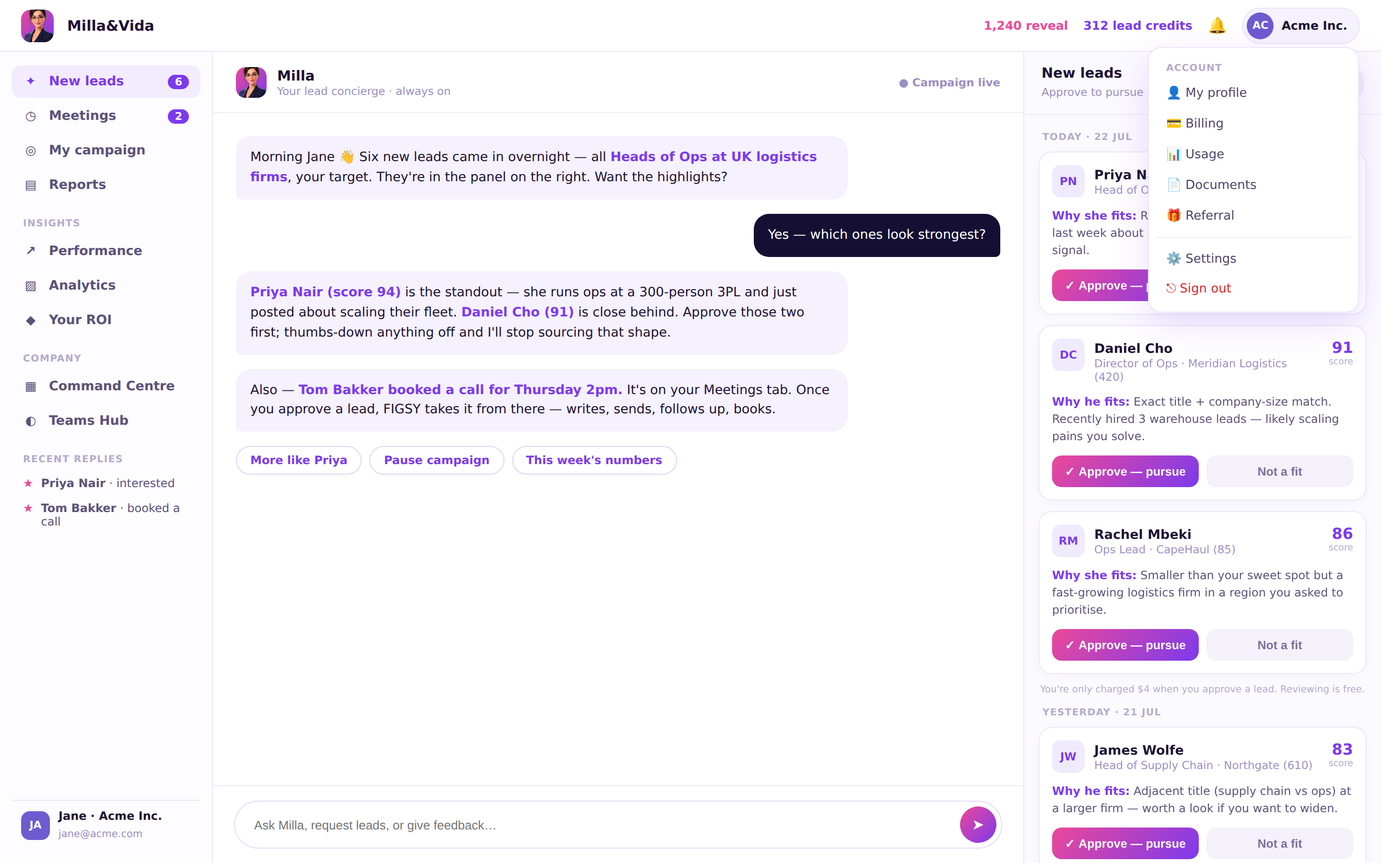
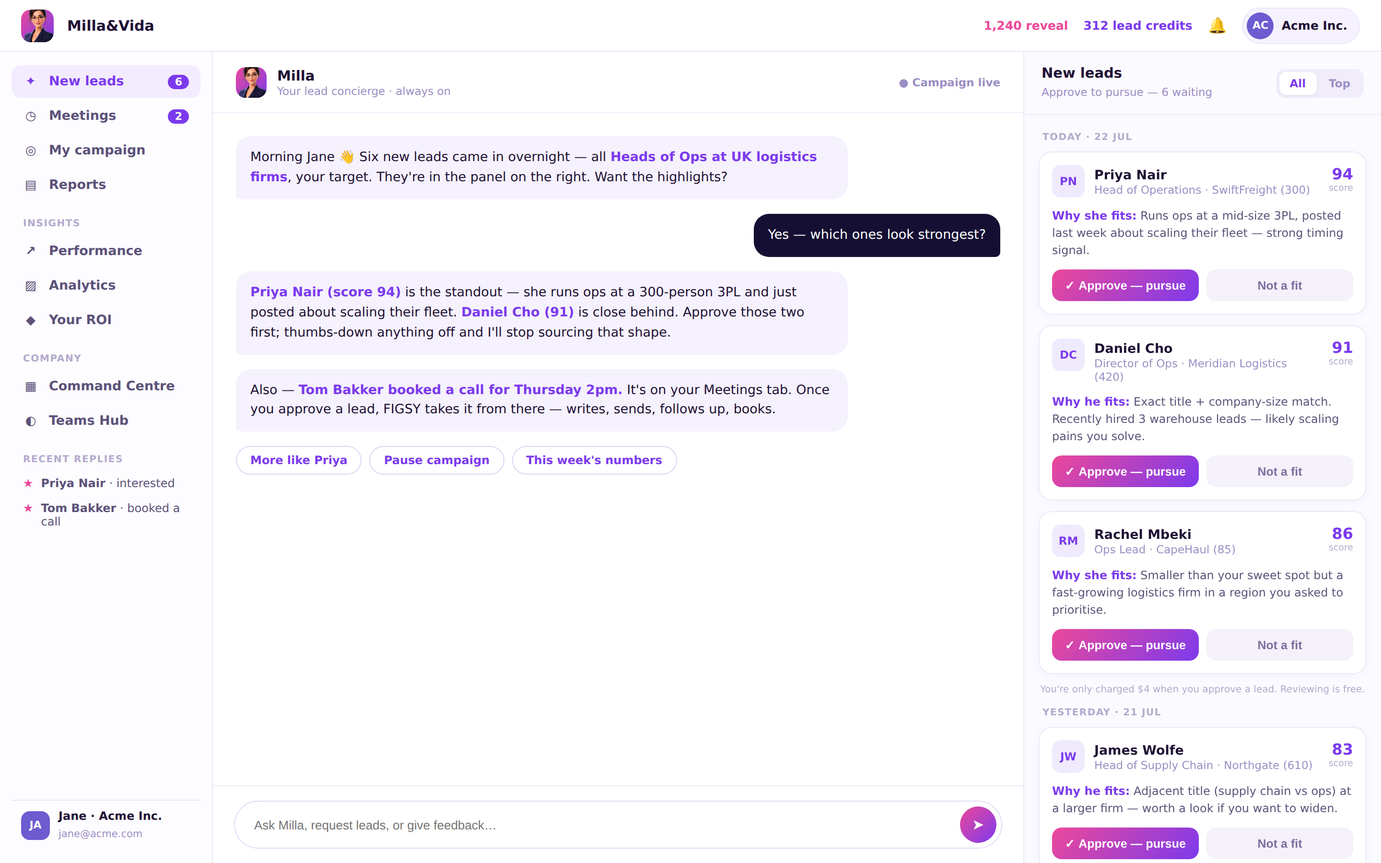
#482 (Fable verify) — pricing model fix + clean mockup renders
- pricing.html: killed the standalone 'Reveal $1' plan card — it read as a buyable cheaper
  tier, but the model has ONE price ($4 on approve = $1+$3 together). Now: the $4 card
  (with the anatomy inside) + Volume. Comparison table 4→3 cols. Calc heading de-FIGSY'd.
- Nav dropdown 'Estimate the meetings FIGSY adds' → 'we add' (28 pages).
- mv-milla-portal.png + mv-vida-console.png re-rendered with the mockups' open dropdown
  panels closed — they were covering the lead cards / pipeline (the 'images are bad' catch).

Claude-Session: https://claude.ai/code/session_01VWxYzSdkTKipYHzoS4C1uU

diff --git a/apps/website/pricing.html b/apps/website/pricing.html
@@ -102,7 +102,7 @@
     .plans-head h2 { font-size: clamp(1.6rem, 3vw, 2.3rem); font-weight: 900; letter-spacing: -0.03em; color: var(--dark); line-height: 1.1; }
     .plans-head > p { font-size: 0.95rem; color: rgba(0,0,0,0.5); margin: 8px auto 0; max-width: 580px; }
     .plans-head > p strong { color: var(--dark); }
-    .plans-grid { display: grid; grid-template-columns: repeat(3,1fr); gap: 18px; align-items: stretch; }
+    .plans-grid { display: grid; grid-template-columns: 1.35fr 1fr; gap: 18px; align-items: stretch; max-width: 880px; margin: 0 auto; }
     .plan { position: relative; display: flex; flex-direction: column; background: #fff; border: 1px solid var(--border); border-radius: 22px; padding: 34px 26px; }
     .plan.pop { border: 1.5px solid var(--blue); box-shadow: 0 24px 60px rgba(124,58,237,0.18); }
     .plan-badge { position: absolute; top: -12px; left: 50%; transform: translateX(-50%); background: linear-gradient(120deg,#7c3aed,#a855f7); color: #fff; font-size: 0.62rem; font-weight: 800; letter-spacing: 0.08em; text-transform: uppercase; padding: 5px 14px; border-radius: 100px; white-space: nowrap; }
@@ -359,7 +359,7 @@
       <div class="nav-dropdown mm" style="min-width:520px">
         <div class="mm-head">Resources</div>
         <div class="mm-grid c2"><a href="the-drop.html" class="mm-link"><span class="mm-ic "><svg viewBox="0 0 24 24" fill="none" stroke="currentColor" stroke-width="1.8" stroke-linejoin="round"><path d="M4 8l8-4 8 4v8l-8 4-8-4z"/><path d="M4 8l8 4 8-4M12 12v8"/></svg></span><span><span class="mm-tt">The Drop </span><span class="mm-ss">What we just shipped</span></span></a>
-          <a href="pipeline-calculator.html" class="mm-link"><span class="mm-ic "><svg viewBox="0 0 24 24" fill="none" stroke="currentColor" stroke-width="1.8" stroke-linecap="round"><path d="M5 20V11M10 20V5M15 20v-6M20 20V8"/></svg></span><span><span class="mm-tt">Pipeline Calculator </span><span class="mm-ss">Estimate the meetings FIGSY adds</span></span></a>
+          <a href="pipeline-calculator.html" class="mm-link"><span class="mm-ic "><svg viewBox="0 0 24 24" fill="none" stroke="currentColor" stroke-width="1.8" stroke-linecap="round"><path d="M5 20V11M10 20V5M15 20v-6M20 20V8"/></svg></span><span><span class="mm-tt">Pipeline Calculator </span><span class="mm-ss">Estimate the meetings we add</span></span></a>
           <a href="help-centre.html" class="mm-link"><span class="mm-ic pink"><svg viewBox="0 0 24 24" fill="none" stroke="currentColor" stroke-width="1.8"><circle cx="12" cy="12" r="8.5"/><circle cx="12" cy="12" r="3.5"/><path d="M6 6l3.5 3.5M18 6l-3.5 3.5M18 18l-3.5-3.5M6 18l3.5-3.5"/></svg></span><span><span class="mm-tt">Help Centre <span class="mm-tag soon">New</span></span><span class="mm-ss">Guides, answers &amp; support</span></span></a>
           <a href="support.html#faq" class="mm-link"><span class="mm-ic "><svg viewBox="0 0 24 24" fill="none" stroke="currentColor" stroke-width="1.8" stroke-linecap="round"><circle cx="12" cy="12" r="8.5"/><path d="M9.6 9.5A2.5 2.5 0 1 1 12 12.6v1.2"/><circle cx="12" cy="16.6" r=".4" fill="currentColor"/></svg></span><span><span class="mm-tt">FAQs </span><span class="mm-ss">Quick answers, no fluff</span></span></a></div>
       </div>
@@ -404,22 +404,6 @@
   </div>
 
   <div class="plans-grid">
-    <!-- Reveal (the first $1) -->
-    <div class="plan">
-      <div class="plan-name">Reveal</div>
-      <div class="plan-role">The first $1 · unlocks the contact</div>
-      <div class="plan-price">$1<span>/approved lead</span></div>
-      <div class="plan-note">When you approve a lead in your Milla portal, $1 reveals the verified contact. Reviewing and passing is always free.</div>
-      <ul>
-        <li><svg width="14" height="14" viewBox="0 0 24 24" fill="none" stroke="#7c3aed" stroke-width="2.6" stroke-linecap="round" stroke-linejoin="round"><path d="M20 6 9 17l-5-5"/></svg>ICP-matched B2B sourcing (PDL + Hunter)</li>
-        <li><svg width="14" height="14" viewBox="0 0 24 24" fill="none" stroke="#7c3aed" stroke-width="2.6" stroke-linecap="round" stroke-linejoin="round"><path d="M20 6 9 17l-5-5"/></svg>Verified contact, revealed on approve</li>
-        <li><svg width="14" height="14" viewBox="0 0 24 24" fill="none" stroke="#7c3aed" stroke-width="2.6" stroke-linecap="round" stroke-linejoin="round"><path d="M20 6 9 17l-5-5"/></svg>AI lead score 0–100</li>
-        <li><svg width="14" height="14" viewBox="0 0 24 24" fill="none" stroke="#7c3aed" stroke-width="2.6" stroke-linecap="round" stroke-linejoin="round"><path d="M20 6 9 17l-5-5"/></svg>Suppression-checked · CRM dedup</li>
-        <li><svg width="14" height="14" viewBox="0 0 24 24" fill="none" stroke="#7c3aed" stroke-width="2.6" stroke-linecap="round" stroke-linejoin="round"><path d="M20 6 9 17l-5-5"/></svg>Dead email? Auto-refunded</li>
-      </ul>
-      <a href="demo.html" class="plan-btn out">Book a walkthrough &rarr;</a>
-    </div>
-
     <!-- Approved lead (the model) -->
     <div class="plan pop">
       <div class="plan-badge">The model</div>
@@ -428,7 +412,8 @@
       <div class="plan-price">$4<span>/approved lead</span></div>
       <div class="plan-note">$1 to reveal + $3 for our operator team to work it. Fires only when you tap 👍 approve — never before. Reviewing is free.</div>
       <ul>
-        <li><svg width="14" height="14" viewBox="0 0 24 24" fill="none" stroke="#7c3aed" stroke-width="2.6" stroke-linecap="round" stroke-linejoin="round"><path d="M20 6 9 17l-5-5"/></svg>We source &amp; score; leads land masked in your portal</li>
+        <li><svg width="14" height="14" viewBox="0 0 24 24" fill="none" stroke="#7c3aed" stroke-width="2.6" stroke-linecap="round" stroke-linejoin="round"><path d="M20 6 9 17l-5-5"/></svg>We source &amp; score (PDL + Hunter); leads land masked in your portal</li>
+        <li><svg width="14" height="14" viewBox="0 0 24 24" fill="none" stroke="#7c3aed" stroke-width="2.6" stroke-linecap="round" stroke-linejoin="round"><path d="M20 6 9 17l-5-5"/></svg>Verified contact revealed on your 👍 · dead email auto-refunded</li>
         <li><svg width="14" height="14" viewBox="0 0 24 24" fill="none" stroke="#7c3aed" stroke-width="2.6" stroke-linecap="round" stroke-linejoin="round"><path d="M20 6 9 17l-5-5"/></svg>Personalised outreach, written &amp; sent for you</li>
         <li><svg width="14" height="14" viewBox="0 0 24 24" fill="none" stroke="#7c3aed" stroke-width="2.6" stroke-linecap="round" stroke-linejoin="round"><path d="M20 6 9 17l-5-5"/></svg>Follow-up sequence (up to 10 steps)</li>
         <li><svg width="14" height="14" viewBox="0 0 24 24" fill="none" stroke="#7c3aed" stroke-width="2.6" stroke-linecap="round" stroke-linejoin="round"><path d="M20 6 9 17l-5-5"/></svg>Reply triage with human approval · Google Calendar booking</li>
@@ -478,36 +463,35 @@
         <thead>
           <tr>
             <th>Feature</th>
-            <th><span class="cmp-plan-name">Reveal</span><div class="cmp-plan-price">$1 / approved</div></th>
             <th class="cmp-col-pop"><span class="cmp-plan-name">Approved lead</span><div class="cmp-plan-price">$4 / approved</div></th>
             <th><span class="cmp-plan-name">Volume</span><div class="cmp-plan-price">Custom</div></th>
           </tr>
         </thead>
         <tbody>
-          <tr class="cmp-grouprow"><td colspan="4">Data</td></tr>
-          <tr><td>ICP-matched lead sourcing</td><td class="cmp-yes">✓</td><td class="cmp-col-pop cmp-yes">✓</td><td class="cmp-yes">✓</td></tr>
-          <tr><td>Verified contact</td><td class="cmp-yes">✓</td><td class="cmp-col-pop cmp-yes">✓</td><td class="cmp-yes">✓</td></tr>
-          <tr><td>AI lead score 0–100</td><td class="cmp-yes">✓</td><td class="cmp-col-pop cmp-yes">✓</td><td class="cmp-yes">✓</td></tr>
-          <tr><td>CRM dedup</td><td class="cmp-yes">✓</td><td class="cmp-col-pop cmp-yes">✓</td><td class="cmp-yes">✓</td></tr>
-          <tr><td>CSV export</td><td class="cmp-yes">✓</td><td class="cmp-col-pop cmp-yes">✓</td><td class="cmp-yes">✓</td></tr>
+          <tr class="cmp-grouprow"><td colspan="3">Data</td></tr>
+          <tr><td>ICP-matched lead sourcing</td><td class="cmp-col-pop cmp-yes">✓</td><td class="cmp-yes">✓</td></tr>
+          <tr><td>Verified contact</td><td class="cmp-col-pop cmp-yes">✓</td><td class="cmp-yes">✓</td></tr>
+          <tr><td>AI lead score 0–100</td><td class="cmp-col-pop cmp-yes">✓</td><td class="cmp-yes">✓</td></tr>
+          <tr><td>CRM dedup</td><td class="cmp-col-pop cmp-yes">✓</td><td class="cmp-yes">✓</td></tr>
+          <tr><td>CSV export</td><td class="cmp-col-pop cmp-yes">✓</td><td class="cmp-yes">✓</td></tr>
 
-          <tr class="cmp-grouprow"><td colspan="4">Outbound work</td></tr>
-          <tr><td>Personalised outreach, sent by our team</td><td class="cmp-no">—</td><td class="cmp-col-pop cmp-yes">✓</td><td class="cmp-yes">✓</td></tr>
-          <tr><td>Follow-up sequence (≤10 steps)</td><td class="cmp-no">—</td><td class="cmp-col-pop cmp-yes">✓</td><td class="cmp-yes">✓</td></tr>
-          <tr><td>Reply triage with human approval</td><td class="cmp-no">—</td><td class="cmp-col-pop cmp-yes">✓</td><td class="cmp-yes">✓</td></tr>
-          <tr><td>Booking link in every email</td><td class="cmp-no">—</td><td class="cmp-col-pop cmp-yes">✓</td><td class="cmp-yes">✓</td></tr>
-          <tr><td>Google Calendar booking</td><td class="cmp-no">—</td><td class="cmp-col-pop cmp-yes">✓</td><td class="cmp-yes">✓</td></tr>
-          <tr><td>Kill-switch &amp; 20/day cap</td><td class="cmp-no">—</td><td class="cmp-col-pop cmp-yes">✓</td><td class="cmp-yes">✓</td></tr>
+          <tr class="cmp-grouprow"><td colspan="3">Outbound work</td></tr>
+          <tr><td>Personalised outreach, sent by our team</td><td class="cmp-col-pop cmp-yes">✓</td><td class="cmp-yes">✓</td></tr>
+          <tr><td>Follow-up sequence (≤10 steps)</td><td class="cmp-col-pop cmp-yes">✓</td><td class="cmp-yes">✓</td></tr>
+          <tr><td>Reply triage with human approval</td><td class="cmp-col-pop cmp-yes">✓</td><td class="cmp-yes">✓</td></tr>
+          <tr><td>Booking link in every email</td><td class="cmp-col-pop cmp-yes">✓</td><td class="cmp-yes">✓</td></tr>
+          <tr><td>Google Calendar booking</td><td class="cmp-col-pop cmp-yes">✓</td><td class="cmp-yes">✓</td></tr>
+          <tr><td>Kill-switch &amp; 20/day cap</td><td class="cmp-col-pop cmp-yes">✓</td><td class="cmp-yes">✓</td></tr>
 
-          <tr class="cmp-grouprow"><td colspan="4">Delivery &amp; compliance</td></tr>
-          <tr><td>GDPR / POPIA compliant</td><td class="cmp-yes">✓</td><td class="cmp-col-pop cmp-yes">✓</td><td class="cmp-yes">✓</td></tr>
-          <tr><td>Suppression / opt-out handling</td><td class="cmp-yes">✓</td><td class="cmp-col-pop cmp-yes">✓</td><td class="cmp-yes">✓</td></tr>
-          <tr><td>SSO / DPA on request</td><td class="cmp-no">—</td><td class="cmp-col-pop cmp-no">—</td><td class="cmp-yes">✓</td></tr>
+          <tr class="cmp-grouprow"><td colspan="3">Delivery &amp; compliance</td></tr>
+          <tr><td>GDPR / POPIA compliant</td><td class="cmp-col-pop cmp-yes">✓</td><td class="cmp-yes">✓</td></tr>
+          <tr><td>Suppression / opt-out handling</td><td class="cmp-col-pop cmp-yes">✓</td><td class="cmp-yes">✓</td></tr>
+          <tr><td>SSO / DPA on request</td><td class="cmp-col-pop cmp-no">—</td><td class="cmp-yes">✓</td></tr>
 
-          <tr class="cmp-grouprow"><td colspan="4">Support</td></tr>
-          <tr><td>Email support</td><td class="cmp-yes">✓</td><td class="cmp-col-pop cmp-yes">✓</td><td class="cmp-yes">✓</td></tr>
-          <tr><td>Dedicated onboarding</td><td class="cmp-no">—</td><td class="cmp-col-pop cmp-no">—</td><td class="cmp-yes">✓</td></tr>
-          <tr><td>Priority support</td><td class="cmp-no">—</td><td class="cmp-col-pop cmp-no">—</td><td class="cmp-yes">✓</td></tr>
+          <tr class="cmp-grouprow"><td colspan="3">Support</td></tr>
+          <tr><td>Email support</td><td class="cmp-col-pop cmp-yes">✓</td><td class="cmp-yes">✓</td></tr>
+          <tr><td>Dedicated onboarding</td><td class="cmp-col-pop cmp-no">—</td><td class="cmp-yes">✓</td></tr>
+          <tr><td>Priority support</td><td class="cmp-col-pop cmp-no">—</td><td class="cmp-yes">✓</td></tr>
         </tbody>
       </table>
     </div>
@@ -518,7 +502,7 @@
 <section class="calc-band">
   <div class="calc-head">
     <div class="s-label">The calculator</div>
-    <h2>See what FIGSY could add.</h2>
+    <h2>See what this could add.</h2>
     <p>Put in your own numbers — every assumption below is yours to move. We'd rather show you a conservative estimate you trust than a flashy one you don't.</p>
   </div>
 

diff --git a/apps/website/index.html b/apps/website/index.html
@@ -1395,7 +1395,7 @@
       <div class="nav-dropdown mm" style="min-width:520px">
         <div class="mm-head">Resources</div>
         <div class="mm-grid c2"><a href="the-drop.html" class="mm-link"><span class="mm-ic "><svg viewBox="0 0 24 24" fill="none" stroke="currentColor" stroke-width="1.8" stroke-linejoin="round"><path d="M4 8l8-4 8 4v8l-8 4-8-4z"/><path d="M4 8l8 4 8-4M12 12v8"/></svg></span><span><span class="mm-tt">The Drop </span><span class="mm-ss">What we just shipped</span></span></a>
-          <a href="pipeline-calculator.html" class="mm-link"><span class="mm-ic "><svg viewBox="0 0 24 24" fill="none" stroke="currentColor" stroke-width="1.8" stroke-linecap="round"><path d="M5 20V11M10 20V5M15 20v-6M20 20V8"/></svg></span><span><span class="mm-tt">Pipeline Calculator </span><span class="mm-ss">Estimate the meetings FIGSY adds</span></span></a>
+          <a href="pipeline-calculator.html" class="mm-link"><span class="mm-ic "><svg viewBox="0 0 24 24" fill="none" stroke="currentColor" stroke-width="1.8" stroke-linecap="round"><path d="M5 20V11M10 20V5M15 20v-6M20 20V8"/></svg></span><span><span class="mm-tt">Pipeline Calculator </span><span class="mm-ss">Estimate the meetings we add</span></span></a>
           <a href="help-centre.html" class="mm-link"><span class="mm-ic pink"><svg viewBox="0 0 24 24" fill="none" stroke="currentColor" stroke-width="1.8"><circle cx="12" cy="12" r="8.5"/><circle cx="12" cy="12" r="3.5"/><path d="M6 6l3.5 3.5M18 6l-3.5 3.5M18 18l-3.5-3.5M6 18l3.5-3.5"/></svg></span><span><span class="mm-tt">Help Centre <span class="mm-tag soon">New</span></span><span class="mm-ss">Guides, answers &amp; support</span></span></a>
           <a href="support.html#faq" class="mm-link"><span class="mm-ic "><svg viewBox="0 0 24 24" fill="none" stroke="currentColor" stroke-width="1.8" stroke-linecap="round"><circle cx="12" cy="12" r="8.5"/><path d="M9.6 9.5A2.5 2.5 0 1 1 12 12.6v1.2"/><circle cx="12" cy="16.6" r=".4" fill="currentColor"/></svg></span><span><span class="mm-tt">FAQs </span><span class="mm-ss">Quick answers, no fluff</span></span></a></div>
       </div>

diff --git a/apps/website/about.html b/apps/website/about.html
@@ -306,7 +306,7 @@
       <div class="nav-dropdown mm" style="min-width:520px">
         <div class="mm-head">Resources</div>
         <div class="mm-grid c2"><a href="the-drop.html" class="mm-link"><span class="mm-ic "><svg viewBox="0 0 24 24" fill="none" stroke="currentColor" stroke-width="1.8" stroke-linejoin="round"><path d="M4 8l8-4 8 4v8l-8 4-8-4z"/><path d="M4 8l8 4 8-4M12 12v8"/></svg></span><span><span class="mm-tt">The Drop </span><span class="mm-ss">What we just shipped</span></span></a>
-          <a href="pipeline-calculator.html" class="mm-link"><span class="mm-ic "><svg viewBox="0 0 24 24" fill="none" stroke="currentColor" stroke-width="1.8" stroke-linecap="round"><path d="M5 20V11M10 20V5M15 20v-6M20 20V8"/></svg></span><span><span class="mm-tt">Pipeline Calculator </span><span class="mm-ss">Estimate the meetings FIGSY adds</span></span></a>
+          <a href="pipeline-calculator.html" class="mm-link"><span class="mm-ic "><svg viewBox="0 0 24 24" fill="none" stroke="currentColor" stroke-width="1.8" stroke-linecap="round"><path d="M5 20V11M10 20V5M15 20v-6M20 20V8"/></svg></span><span><span class="mm-tt">Pipeline Calculator </span><span class="mm-ss">Estimate the meetings we add</span></span></a>
           <a href="help-centre.html" class="mm-link"><span class="mm-ic pink"><svg viewBox="0 0 24 24" fill="none" stroke="currentColor" stroke-width="1.8"><circle cx="12" cy="12" r="8.5"/><circle cx="12" cy="12" r="3.5"/><path d="M6 6l3.5 3.5M18 6l-3.5 3.5M18 18l-3.5-3.5M6 18l3.5-3.5"/></svg></span><span><span class="mm-tt">Help Centre <span class="mm-tag soon">New</span></span><span class="mm-ss">Guides, answers &amp; support</span></span></a>
           <a href="support.html#faq" class="mm-link"><span class="mm-ic "><svg viewBox="0 0 24 24" fill="none" stroke="currentColor" stroke-width="1.8" stroke-linecap="round"><circle cx="12" cy="12" r="8.5"/><path d="M9.6 9.5A2.5 2.5 0 1 1 12 12.6v1.2"/><circle cx="12" cy="16.6" r=".4" fill="currentColor"/></svg></span><span><span class="mm-tt">FAQs </span><span class="mm-ss">Quick answers, no fluff</span></span></a></div>
       </div>

diff --git a/apps/website/demo.html b/apps/website/demo.html
@@ -202,7 +202,7 @@
       <div class="nav-dropdown mm" style="min-width:520px">
         <div class="mm-head">Resources</div>
         <div class="mm-grid c2"><a href="the-drop.html" class="mm-link"><span class="mm-ic "><svg viewBox="0 0 24 24" fill="none" stroke="currentColor" stroke-width="1.8" stroke-linejoin="round"><path d="M4 8l8-4 8 4v8l-8 4-8-4z"/><path d="M4 8l8 4 8-4M12 12v8"/></svg></span><span><span class="mm-tt">The Drop </span><span class="mm-ss">What we just shipped</span></span></a>
-          <a href="pipeline-calculator.html" class="mm-link"><span class="mm-ic "><svg viewBox="0 0 24 24" fill="none" stroke="currentColor" stroke-width="1.8" stroke-linecap="round"><path d="M5 20V11M10 20V5M15 20v-6M20 20V8"/></svg></span><span><span class="mm-tt">Pipeline Calculator </span><span class="mm-ss">Estimate the meetings FIGSY adds</span></span></a>
+          <a href="pipeline-calculator.html" class="mm-link"><span class="mm-ic "><svg viewBox="0 0 24 24" fill="none" stroke="currentColor" stroke-width="1.8" stroke-linecap="round"><path d="M5 20V11M10 20V5M15 20v-6M20 20V8"/></svg></span><span><span class="mm-tt">Pipeline Calculator </span><span class="mm-ss">Estimate the meetings we add</span></span></a>
           <a href="help-centre.html" class="mm-link"><span class="mm-ic pink"><svg viewBox="0 0 24 24" fill="none" stroke="currentColor" stroke-width="1.8"><circle cx="12" cy="12" r="8.5"/><circle cx="12" cy="12" r="3.5"/><path d="M6 6l3.5 3.5M18 6l-3.5 3.5M18 18l-3.5-3.5M6 18l3.5-3.5"/></svg></span><span><span class="mm-tt">Help Centre <span class="mm-tag soon">New</span></span><span class="mm-ss">Guides, answers &amp; support</span></span></a>
           <a href="support.html#faq" class="mm-link"><span class="mm-ic "><svg viewBox="0 0 24 24" fill="none" stroke="currentColor" stroke-width="1.8" stroke-linecap="round"><circle cx="12" cy="12" r="8.5"/><path d="M9.6 9.5A2.5 2.5 0 1 1 12 12.6v1.2"/><circle cx="12" cy="16.6" r=".4" fill="currentColor"/></svg></span><span><span class="mm-tt">FAQs </span><span class="mm-ss">Quick answers, no fluff</span></span></a></div>
       </div>

diff --git a/apps/website/dpa-us.html b/apps/website/dpa-us.html
@@ -221,7 +221,7 @@
       <div class="nav-dropdown mm" style="min-width:520px">
         <div class="mm-head">Resources</div>
         <div class="mm-grid c2"><a href="the-drop.html" class="mm-link"><span class="mm-ic "><svg viewBox="0 0 24 24" fill="none" stroke="currentColor" stroke-width="1.8" stroke-linejoin="round"><path d="M4 8l8-4 8 4v8l-8 4-8-4z"/><path d="M4 8l8 4 8-4M12 12v8"/></svg></span><span><span class="mm-tt">The Drop </span><span class="mm-ss">What we just shipped</span></span></a>
-          <a href="pipeline-calculator.html" class="mm-link"><span class="mm-ic "><svg viewBox="0 0 24 24" fill="none" stroke="currentColor" stroke-width="1.8" stroke-linecap="round"><path d="M5 20V11M10 20V5M15 20v-6M20 20V8"/></svg></span><span><span class="mm-tt">Pipeline Calculator </span><span class="mm-ss">Estimate the meetings FIGSY adds</span></span></a>
+          <a href="pipeline-calculator.html" class="mm-link"><span class="mm-ic "><svg viewBox="0 0 24 24" fill="none" stroke="currentColor" stroke-width="1.8" stroke-linecap="round"><path d="M5 20V11M10 20V5M15 20v-6M20 20V8"/></svg></span><span><span class="mm-tt">Pipeline Calculator </span><span class="mm-ss">Estimate the meetings we add</span></span></a>
           <a href="help-centre.html" class="mm-link"><span class="mm-ic pink"><svg viewBox="0 0 24 24" fill="none" stroke="currentColor" stroke-width="1.8"><circle cx="12" cy="12" r="8.5"/><circle cx="12" cy="12" r="3.5"/><path d="M6 6l3.5 3.5M18 6l-3.5 3.5M18 18l-3.5-3.5M6 18l3.5-3.5"/></svg></span><span><span class="mm-tt">Help Centre <span class="mm-tag soon">New</span></span><span class="mm-ss">Guides, answers &amp; support</span></span></a>
           <a href="support.html#faq" class="mm-link"><span class="mm-ic "><svg viewBox="0 0 24 24" fill="none" stroke="currentColor" stroke-width="1.8" stroke-linecap="round"><circle cx="12" cy="12" r="8.5"/><path d="M9.6 9.5A2.5 2.5 0 1 1 12 12.6v1.2"/><circle cx="12" cy="16.6" r=".4" fill="currentColor"/></svg></span><span><span class="mm-tt">FAQs </span><span class="mm-ss">Quick answers, no fluff</span></span></a></div>
       </div>

diff --git a/apps/website/dpa.html b/apps/website/dpa.html
@@ -216,7 +216,7 @@
       <div class="nav-dropdown mm" style="min-width:520px">
         <div class="mm-head">Resources</div>
         <div class="mm-grid c2"><a href="the-drop.html" class="mm-link"><span class="mm-ic "><svg viewBox="0 0 24 24" fill="none" stroke="currentColor" stroke-width="1.8" stroke-linejoin="round"><path d="M4 8l8-4 8 4v8l-8 4-8-4z"/><path d="M4 8l8 4 8-4M12 12v8"/></svg></span><span><span class="mm-tt">The Drop </span><span class="mm-ss">What we just shipped</span></span></a>
-          <a href="pipeline-calculator.html" class="mm-link"><span class="mm-ic "><svg viewBox="0 0 24 24" fill="none" stroke="currentColor" stroke-width="1.8" stroke-linecap="round"><path d="M5 20V11M10 20V5M15 20v-6M20 20V8"/></svg></span><span><span class="mm-tt">Pipeline Calculator </span><span class="mm-ss">Estimate the meetings FIGSY adds</span></span></a>
+          <a href="pipeline-calculator.html" class="mm-link"><span class="mm-ic "><svg viewBox="0 0 24 24" fill="none" stroke="currentColor" stroke-width="1.8" stroke-linecap="round"><path d="M5 20V11M10 20V5M15 20v-6M20 20V8"/></svg></span><span><span class="mm-tt">Pipeline Calculator </span><span class="mm-ss">Estimate the meetings we add</span></span></a>
           <a href="help-centre.html" class="mm-link"><span class="mm-ic pink"><svg viewBox="0 0 24 24" fill="none" stroke="currentColor" stroke-width="1.8"><circle cx="12" cy="12" r="8.5"/><circle cx="12" cy="12" r="3.5"/><path d="M6 6l3.5 3.5M18 6l-3.5 3.5M18 18l-3.5-3.5M6 18l3.5-3.5"/></svg></span><span><span class="mm-tt">Help Centre <span class="mm-tag soon">New</span></span><span class="mm-ss">Guides, answers &amp; support</span></span></a>
           <a href="support.html#faq" class="mm-link"><span class="mm-ic "><svg viewBox="0 0 24 24" fill="none" stroke="currentColor" stroke-width="1.8" stroke-linecap="round"><circle cx="12" cy="12" r="8.5"/><path d="M9.6 9.5A2.5 2.5 0 1 1 12 12.6v1.2"/><circle cx="12" cy="16.6" r=".4" fill="currentColor"/></svg></span><span><span class="mm-tt">FAQs </span><span class="mm-ss">Quick answers, no fluff</span></span></a></div>
       </div>

diff --git a/apps/website/drop-01.html b/apps/website/drop-01.html
@@ -211,7 +211,7 @@
       <div class="nav-dropdown mm" style="min-width:520px">
         <div class="mm-head">Resources</div>
         <div class="mm-grid c2"><a href="the-drop.html" class="mm-link"><span class="mm-ic "><svg viewBox="0 0 24 24" fill="none" stroke="currentColor" stroke-width="1.8" stroke-linejoin="round"><path d="M4 8l8-4 8 4v8l-8 4-8-4z"/><path d="M4 8l8 4 8-4M12 12v8"/></svg></span><span><span class="mm-tt">The Drop </span><span class="mm-ss">What we just shipped</span></span></a>
-          <a href="pipeline-calculator.html" class="mm-link"><span class="mm-ic "><svg viewBox="0 0 24 24" fill="none" stroke="currentColor" stroke-width="1.8" stroke-linecap="round"><path d="M5 20V11M10 20V5M15 20v-6M20 20V8"/></svg></span><span><span class="mm-tt">Pipeline Calculator </span><span class="mm-ss">Estimate the meetings FIGSY adds</span></span></a>
+          <a href="pipeline-calculator.html" class="mm-link"><span class="mm-ic "><svg viewBox="0 0 24 24" fill="none" stroke="currentColor" stroke-width="1.8" stroke-linecap="round"><path d="M5 20V11M10 20V5M15 20v-6M20 20V8"/></svg></span><span><span class="mm-tt">Pipeline Calculator </span><span class="mm-ss">Estimate the meetings we add</span></span></a>
           <a href="help-centre.html" class="mm-link"><span class="mm-ic pink"><svg viewBox="0 0 24 24" fill="none" stroke="currentColor" stroke-width="1.8"><circle cx="12" cy="12" r="8.5"/><circle cx="12" cy="12" r="3.5"/><path d="M6 6l3.5 3.5M18 6l-3.5 3.5M18 18l-3.5-3.5M6 18l3.5-3.5"/></svg></span><span><span class="mm-tt">Help Centre <span class="mm-tag soon">New</span></span><span class="mm-ss">Guides, answers &amp; support</span></span></a>
           <a href="support.html#faq" class="mm-link"><span class="mm-ic "><svg viewBox="0 0 24 24" fill="none" stroke="currentColor" stroke-width="1.8" stroke-linecap="round"><circle cx="12" cy="12" r="8.5"/><path d="M9.6 9.5A2.5 2.5 0 1 1 12 12.6v1.2"/><circle cx="12" cy="16.6" r=".4" fill="currentColor"/></svg></span><span><span class="mm-tt">FAQs </span><span class="mm-ss">Quick answers, no fluff</span></span></a></div>
       </div>

diff --git a/apps/website/drop-02.html b/apps/website/drop-02.html
@@ -211,7 +211,7 @@
       <div class="nav-dropdown mm" style="min-width:520px">
         <div class="mm-head">Resources</div>
         <div class="mm-grid c2"><a href="the-drop.html" class="mm-link"><span class="mm-ic "><svg viewBox="0 0 24 24" fill="none" stroke="currentColor" stroke-width="1.8" stroke-linejoin="round"><path d="M4 8l8-4 8 4v8l-8 4-8-4z"/><path d="M4 8l8 4 8-4M12 12v8"/></svg></span><span><span class="mm-tt">The Drop </span><span class="mm-ss">What we just shipped</span></span></a>
-          <a href="pipeline-calculator.html" class="mm-link"><span class="mm-ic "><svg viewBox="0 0 24 24" fill="none" stroke="currentColor" stroke-width="1.8" stroke-linecap="round"><path d="M5 20V11M10 20V5M15 20v-6M20 20V8"/></svg></span><span><span class="mm-tt">Pipeline Calculator </span><span class="mm-ss">Estimate the meetings FIGSY adds</span></span></a>
+          <a href="pipeline-calculator.html" class="mm-link"><span class="mm-ic "><svg viewBox="0 0 24 24" fill="none" stroke="currentColor" stroke-width="1.8" stroke-linecap="round"><path d="M5 20V11M10 20V5M15 20v-6M20 20V8"/></svg></span><span><span class="mm-tt">Pipeline Calculator </span><span class="mm-ss">Estimate the meetings we add</span></span></a>
           <a href="help-centre.html" class="mm-link"><span class="mm-ic pink"><svg viewBox="0 0 24 24" fill="none" stroke="currentColor" stroke-width="1.8"><circle cx="12" cy="12" r="8.5"/><circle cx="12" cy="12" r="3.5"/><path d="M6 6l3.5 3.5M18 6l-3.5 3.5M18 18l-3.5-3.5M6 18l3.5-3.5"/></svg></span><span><span class="mm-tt">Help Centre <span class="mm-tag soon">New</span></span><span class="mm-ss">Guides, answers &amp; support</span></span></a>
           <a href="support.html#faq" class="mm-link"><span class="mm-ic "><svg viewBox="0 0 24 24" fill="none" stroke="currentColor" stroke-width="1.8" stroke-linecap="round"><circle cx="12" cy="12" r="8.5"/><path d="M9.6 9.5A2.5 2.5 0 1 1 12 12.6v1.2"/><circle cx="12" cy="16.6" r=".4" fill="currentColor"/></svg></span><span><span class="mm-tt">FAQs </span><span class="mm-ss">Quick answers, no fluff</span></span></a></div>
       </div>

diff --git a/apps/website/drop-03.html b/apps/website/drop-03.html
@@ -211,7 +211,7 @@
       <div class="nav-dropdown mm" style="min-width:520px">
         <div class="mm-head">Resources</div>
         <div class="mm-grid c2"><a href="the-drop.html" class="mm-link"><span class="mm-ic "><svg viewBox="0 0 24 24" fill="none" stroke="currentColor" stroke-width="1.8" stroke-linejoin="round"><path d="M4 8l8-4 8 4v8l-8 4-8-4z"/><path d="M4 8l8 4 8-4M12 12v8"/></svg></span><span><span class="mm-tt">The Drop </span><span class="mm-ss">What we just shipped</span></span></a>
-          <a href="pipeline-calculator.html" class="mm-link"><span class="mm-ic "><svg viewBox="0 0 24 24" fill="none" stroke="currentColor" stroke-width="1.8" stroke-linecap="round"><path d="M5 20V11M10 20V5M15 20v-6M20 20V8"/></svg></span><span><span class="mm-tt">Pipeline Calculator </span><span class="mm-ss">Estimate the meetings FIGSY adds</span></span></a>
+          <a href="pipeline-calculator.html" class="mm-link"><span class="mm-ic "><svg viewBox="0 0 24 24" fill="none" stroke="currentColor" stroke-width="1.8" stroke-linecap="round"><path d="M5 20V11M10 20V5M15 20v-6M20 20V8"/></svg></span><span><span class="mm-tt">Pipeline Calculator </span><span class="mm-ss">Estimate the meetings we add</span></span></a>
           <a href="help-centre.html" class="mm-link"><span class="mm-ic pink"><svg viewBox="0 0 24 24" fill="none" stroke="currentColor" stroke-width="1.8"><circle cx="12" cy="12" r="8.5"/><circle cx="12" cy="12" r="3.5"/><path d="M6 6l3.5 3.5M18 6l-3.5 3.5M18 18l-3.5-3.5M6 18l3.5-3.5"/></svg></span><span><span class="mm-tt">Help Centre <span class="mm-tag soon">New</span></span><span class="mm-ss">Guides, answers &amp; support</span></span></a>
           <a href="support.html#faq" class="mm-link"><span class="mm-ic "><svg viewBox="0 0 24 24" fill="none" stroke="currentColor" stroke-width="1.8" stroke-linecap="round"><circle cx="12" cy="12" r="8.5"/><path d="M9.6 9.5A2.5 2.5 0 1 1 12 12.6v1.2"/><circle cx="12" cy="16.6" r=".4" fill="currentColor"/></svg></span><span><span class="mm-tt">FAQs </span><span class="mm-ss">Quick answers, no fluff</span></span></a></div>
       </div>

diff --git a/apps/website/drop-04.html b/apps/website/drop-04.html
@@ -211,7 +211,7 @@
       <div class="nav-dropdown mm" style="min-width:520px">
         <div class="mm-head">Resources</div>
         <div class="mm-grid c2"><a href="the-drop.html" class="mm-link"><span class="mm-ic "><svg viewBox="0 0 24 24" fill="none" stroke="currentColor" stroke-width="1.8" stroke-linejoin="round"><path d="M4 8l8-4 8 4v8l-8 4-8-4z"/><path d="M4 8l8 4 8-4M12 12v8"/></svg></span><span><span class="mm-tt">The Drop </span><span class="mm-ss">What we just shipped</span></span></a>
-          <a href="pipeline-calculator.html" class="mm-link"><span class="mm-ic "><svg viewBox="0 0 24 24" fill="none" stroke="currentColor" stroke-width="1.8" stroke-linecap="round"><path d="M5 20V11M10 20V5M15 20v-6M20 20V8"/></svg></span><span><span class="mm-tt">Pipeline Calculator </span><span class="mm-ss">Estimate the meetings FIGSY adds</span></span></a>
+          <a href="pipeline-calculator.html" class="mm-link"><span class="mm-ic "><svg viewBox="0 0 24 24" fill="none" stroke="currentColor" stroke-width="1.8" stroke-linecap="round"><path d="M5 20V11M10 20V5M15 20v-6M20 20V8"/></svg></span><span><span class="mm-tt">Pipeline Calculator </span><span class="mm-ss">Estimate the meetings we add</span></span></a>
           <a href="help-centre.html" class="mm-link"><span class="mm-ic pink"><svg viewBox="0 0 24 24" fill="none" stroke="currentColor" stroke-width="1.8"><circle cx="12" cy="12" r="8.5"/><circle cx="12" cy="12" r="3.5"/><path d="M6 6l3.5 3.5M18 6l-3.5 3.5M18 18l-3.5-3.5M6 18l3.5-3.5"/></svg></span><span><span class="mm-tt">Help Centre <span class="mm-tag soon">New</span></span><span class="mm-ss">Guides, answers &amp; support</span></span></a>
           <a href="support.html#faq" class="mm-link"><span class="mm-ic "><svg viewBox="0 0 24 24" fill="none" stroke="currentColor" stroke-width="1.8" stroke-linecap="round"><circle cx="12" cy="12" r="8.5"/><path d="M9.6 9.5A2.5 2.5 0 1 1 12 12.6v1.2"/><circle cx="12" cy="16.6" r=".4" fill="currentColor"/></svg></span><span><span class="mm-tt">FAQs </span><span class="mm-ss">Quick answers, no fluff</span></span></a></div>
       </div>

diff --git a/apps/website/drop-05.html b/apps/website/drop-05.html
@@ -211,7 +211,7 @@
       <div class="nav-dropdown mm" style="min-width:520px">
         <div class="mm-head">Resources</div>
         <div class="mm-grid c2"><a href="the-drop.html" class="mm-link"><span class="mm-ic "><svg viewBox="0 0 24 24" fill="none" stroke="currentColor" stroke-width="1.8" stroke-linejoin="round"><path d="M4 8l8-4 8 4v8l-8 4-8-4z"/><path d="M4 8l8 4 8-4M12 12v8"/></svg></span><span><span class="mm-tt">The Drop </span><span class="mm-ss">What we just shipped</span></span></a>
-          <a href="pipeline-calculator.html" class="mm-link"><span class="mm-ic "><svg viewBox="0 0 24 24" fill="none" stroke="currentColor" stroke-width="1.8" stroke-linecap="round"><path d="M5 20V11M10 20V5M15 20v-6M20 20V8"/></svg></span><span><span class="mm-tt">Pipeline Calculator </span><span class="mm-ss">Estimate the meetings FIGSY adds</span></span></a>
+          <a href="pipeline-calculator.html" class="mm-link"><span class="mm-ic "><svg viewBox="0 0 24 24" fill="none" stroke="currentColor" stroke-width="1.8" stroke-linecap="round"><path d="M5 20V11M10 20V5M15 20v-6M20 20V8"/></svg></span><span><span class="mm-tt">Pipeline Calculator </span><span class="mm-ss">Estimate the meetings we add</span></span></a>
           <a href="help-centre.html" class="mm-link"><span class="mm-ic pink"><svg viewBox="0 0 24 24" fill="none" stroke="currentColor" stroke-width="1.8"><circle cx="12" cy="12" r="8.5"/><circle cx="12" cy="12" r="3.5"/><path d="M6 6l3.5 3.5M18 6l-3.5 3.5M18 18l-3.5-3.5M6 18l3.5-3.5"/></svg></span><span><span class="mm-tt">Help Centre <span class="mm-tag soon">New</span></span><span class="mm-ss">Guides, answers &amp; support</span></span></a>
           <a href="support.html#faq" class="mm-link"><span class="mm-ic "><svg viewBox="0 0 24 24" fill="none" stroke="currentColor" stroke-width="1.8" stroke-linecap="round"><circle cx="12" cy="12" r="8.5"/><path d="M9.6 9.5A2.5 2.5 0 1 1 12 12.6v1.2"/><circle cx="12" cy="16.6" r=".4" fill="currentColor"/></svg></span><span><span class="mm-tt">FAQs </span><span class="mm-ss">Quick answers, no fluff</span></span></a></div>
       </div>

diff --git a/apps/website/drop-06.html b/apps/website/drop-06.html
@@ -211,7 +211,7 @@
       <div class="nav-dropdown mm" style="min-width:520px">
         <div class="mm-head">Resources</div>
         <div class="mm-grid c2"><a href="the-drop.html" class="mm-link"><span class="mm-ic "><svg viewBox="0 0 24 24" fill="none" stroke="currentColor" stroke-width="1.8" stroke-linejoin="round"><path d="M4 8l8-4 8 4v8l-8 4-8-4z"/><path d="M4 8l8 4 8-4M12 12v8"/></svg></span><span><span class="mm-tt">The Drop </span><span class="mm-ss">What we just shipped</span></span></a>
-          <a href="pipeline-calculator.html" class="mm-link"><span class="mm-ic "><svg viewBox="0 0 24 24" fill="none" stroke="currentColor" stroke-width="1.8" stroke-linecap="round"><path d="M5 20V11M10 20V5M15 20v-6M20 20V8"/></svg></span><span><span class="mm-tt">Pipeline Calculator </span><span class="mm-ss">Estimate the meetings FIGSY adds</span></span></a>
+          <a href="pipeline-calculator.html" class="mm-link"><span class="mm-ic "><svg viewBox="0 0 24 24" fill="none" stroke="currentColor" stroke-width="1.8" stroke-linecap="round"><path d="M5 20V11M10 20V5M15 20v-6M20 20V8"/></svg></span><span><span class="mm-tt">Pipeline Calculator </span><span class="mm-ss">Estimate the meetings we add</span></span></a>
           <a href="help-centre.html" class="mm-link"><span class="mm-ic pink"><svg viewBox="0 0 24 24" fill="none" stroke="currentColor" stroke-width="1.8"><circle cx="12" cy="12" r="8.5"/><circle cx="12" cy="12" r="3.5"/><path d="M6 6l3.5 3.5M18 6l-3.5 3.5M18 18l-3.5-3.5M6 18l3.5-3.5"/></svg></span><span><span class="mm-tt">Help Centre <span class="mm-tag soon">New</span></span><span class="mm-ss">Guides, answers &amp; support</span></span></a>
           <a href="support.html#faq" class="mm-link"><span class="mm-ic "><svg viewBox="0 0 24 24" fill="none" stroke="currentColor" stroke-width="1.8" stroke-linecap="round"><circle cx="12" cy="12" r="8.5"/><path d="M9.6 9.5A2.5 2.5 0 1 1 12 12.6v1.2"/><circle cx="12" cy="16.6" r=".4" fill="currentColor"/></svg></span><span><span class="mm-tt">FAQs </span><span class="mm-ss">Quick answers, no fluff</span></span></a></div>
       </div>
